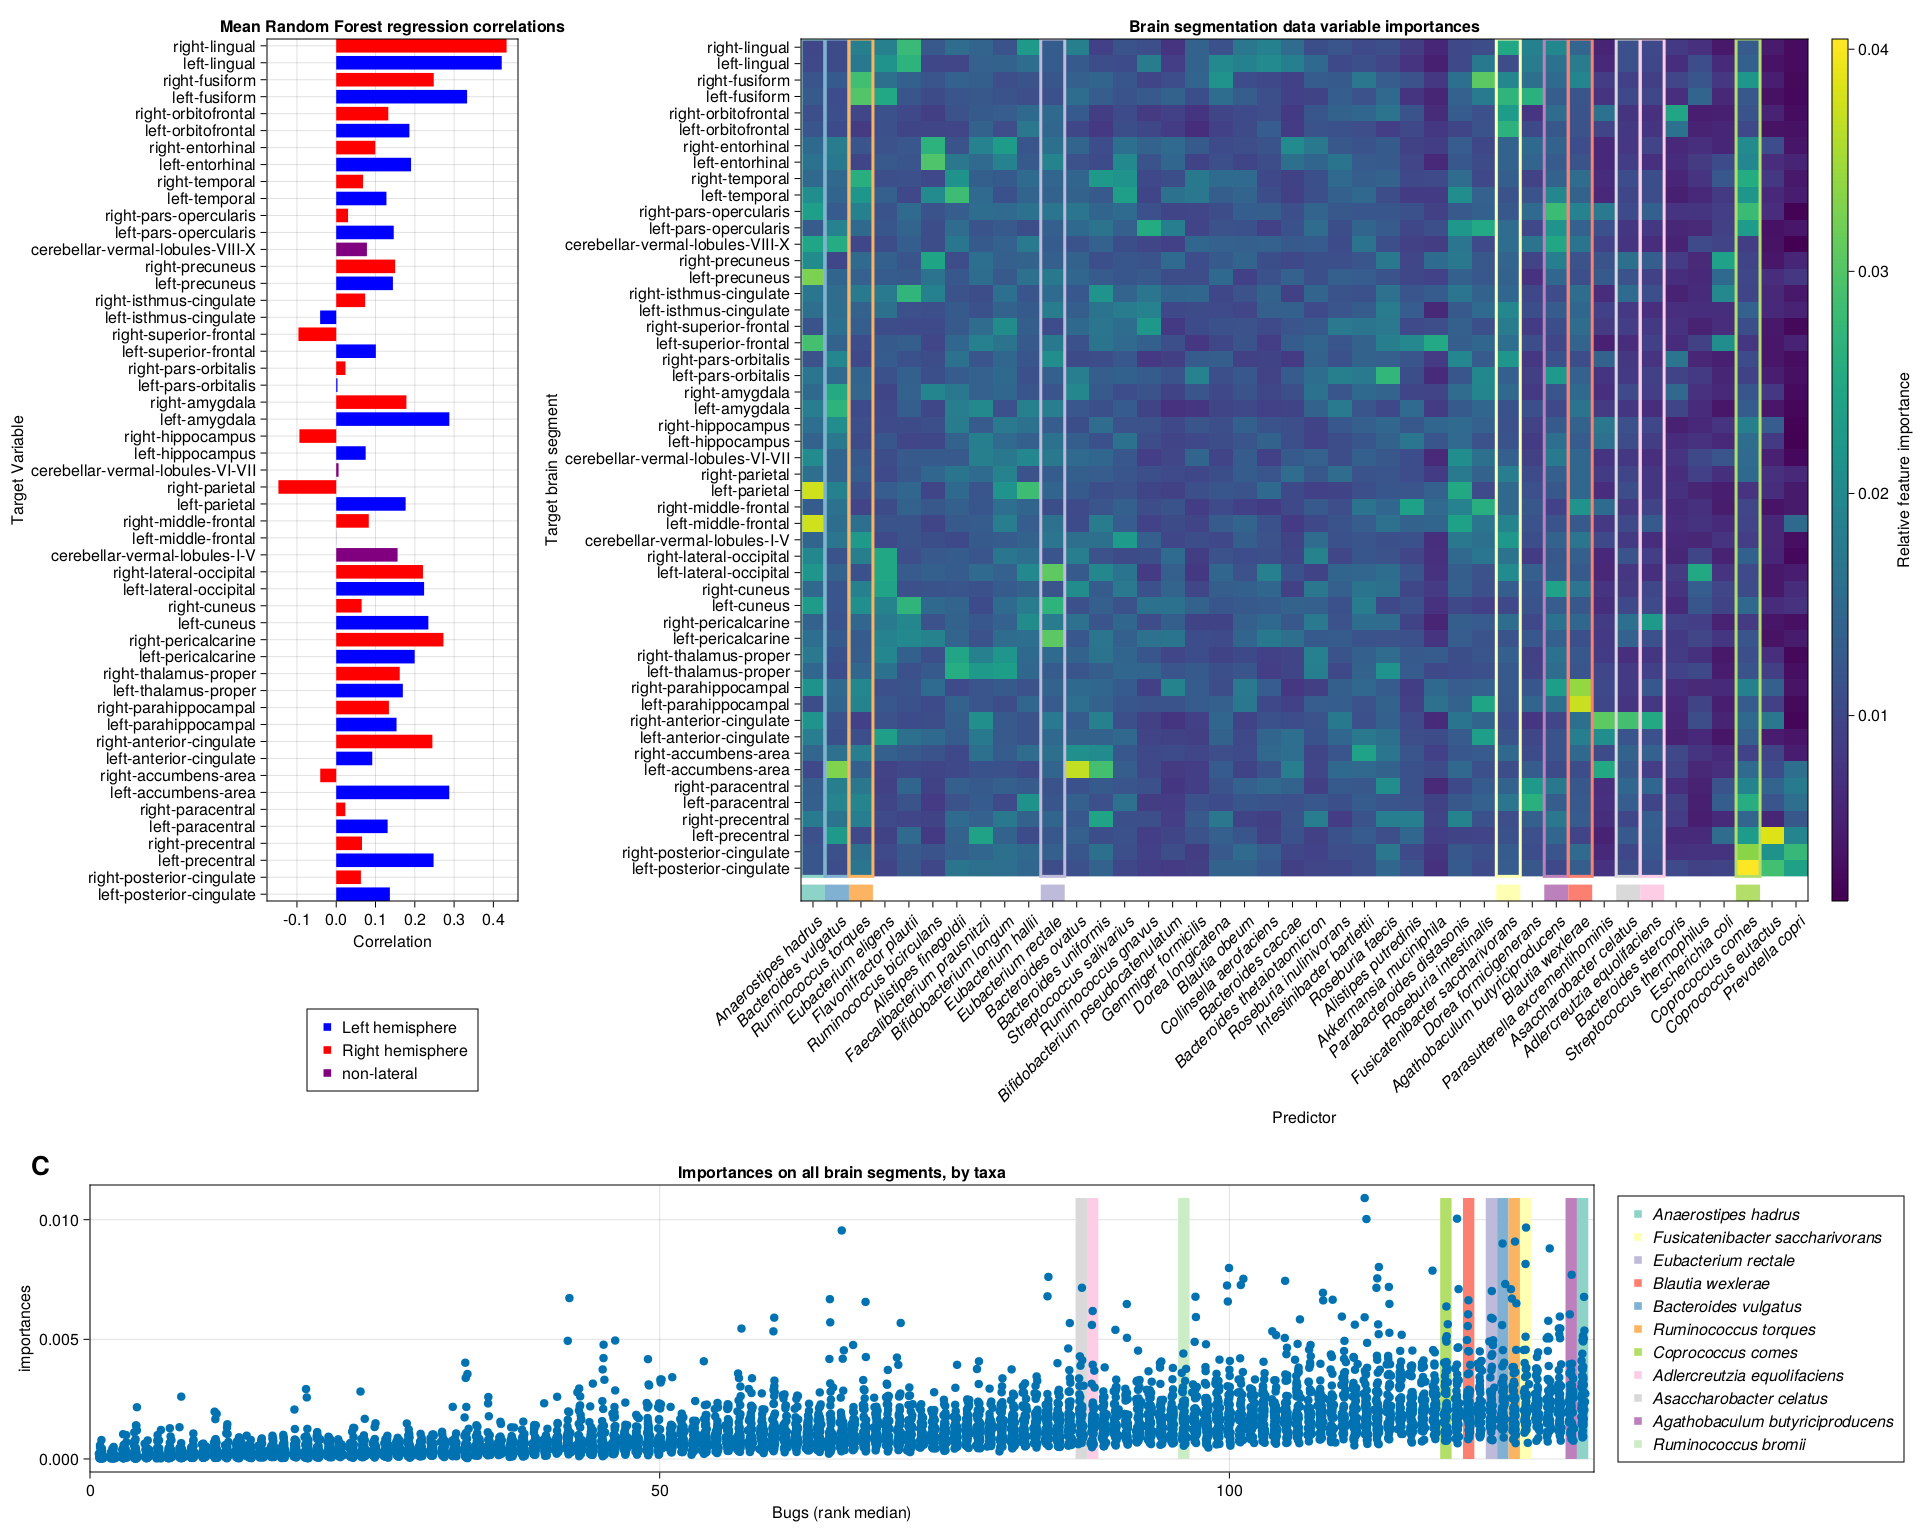
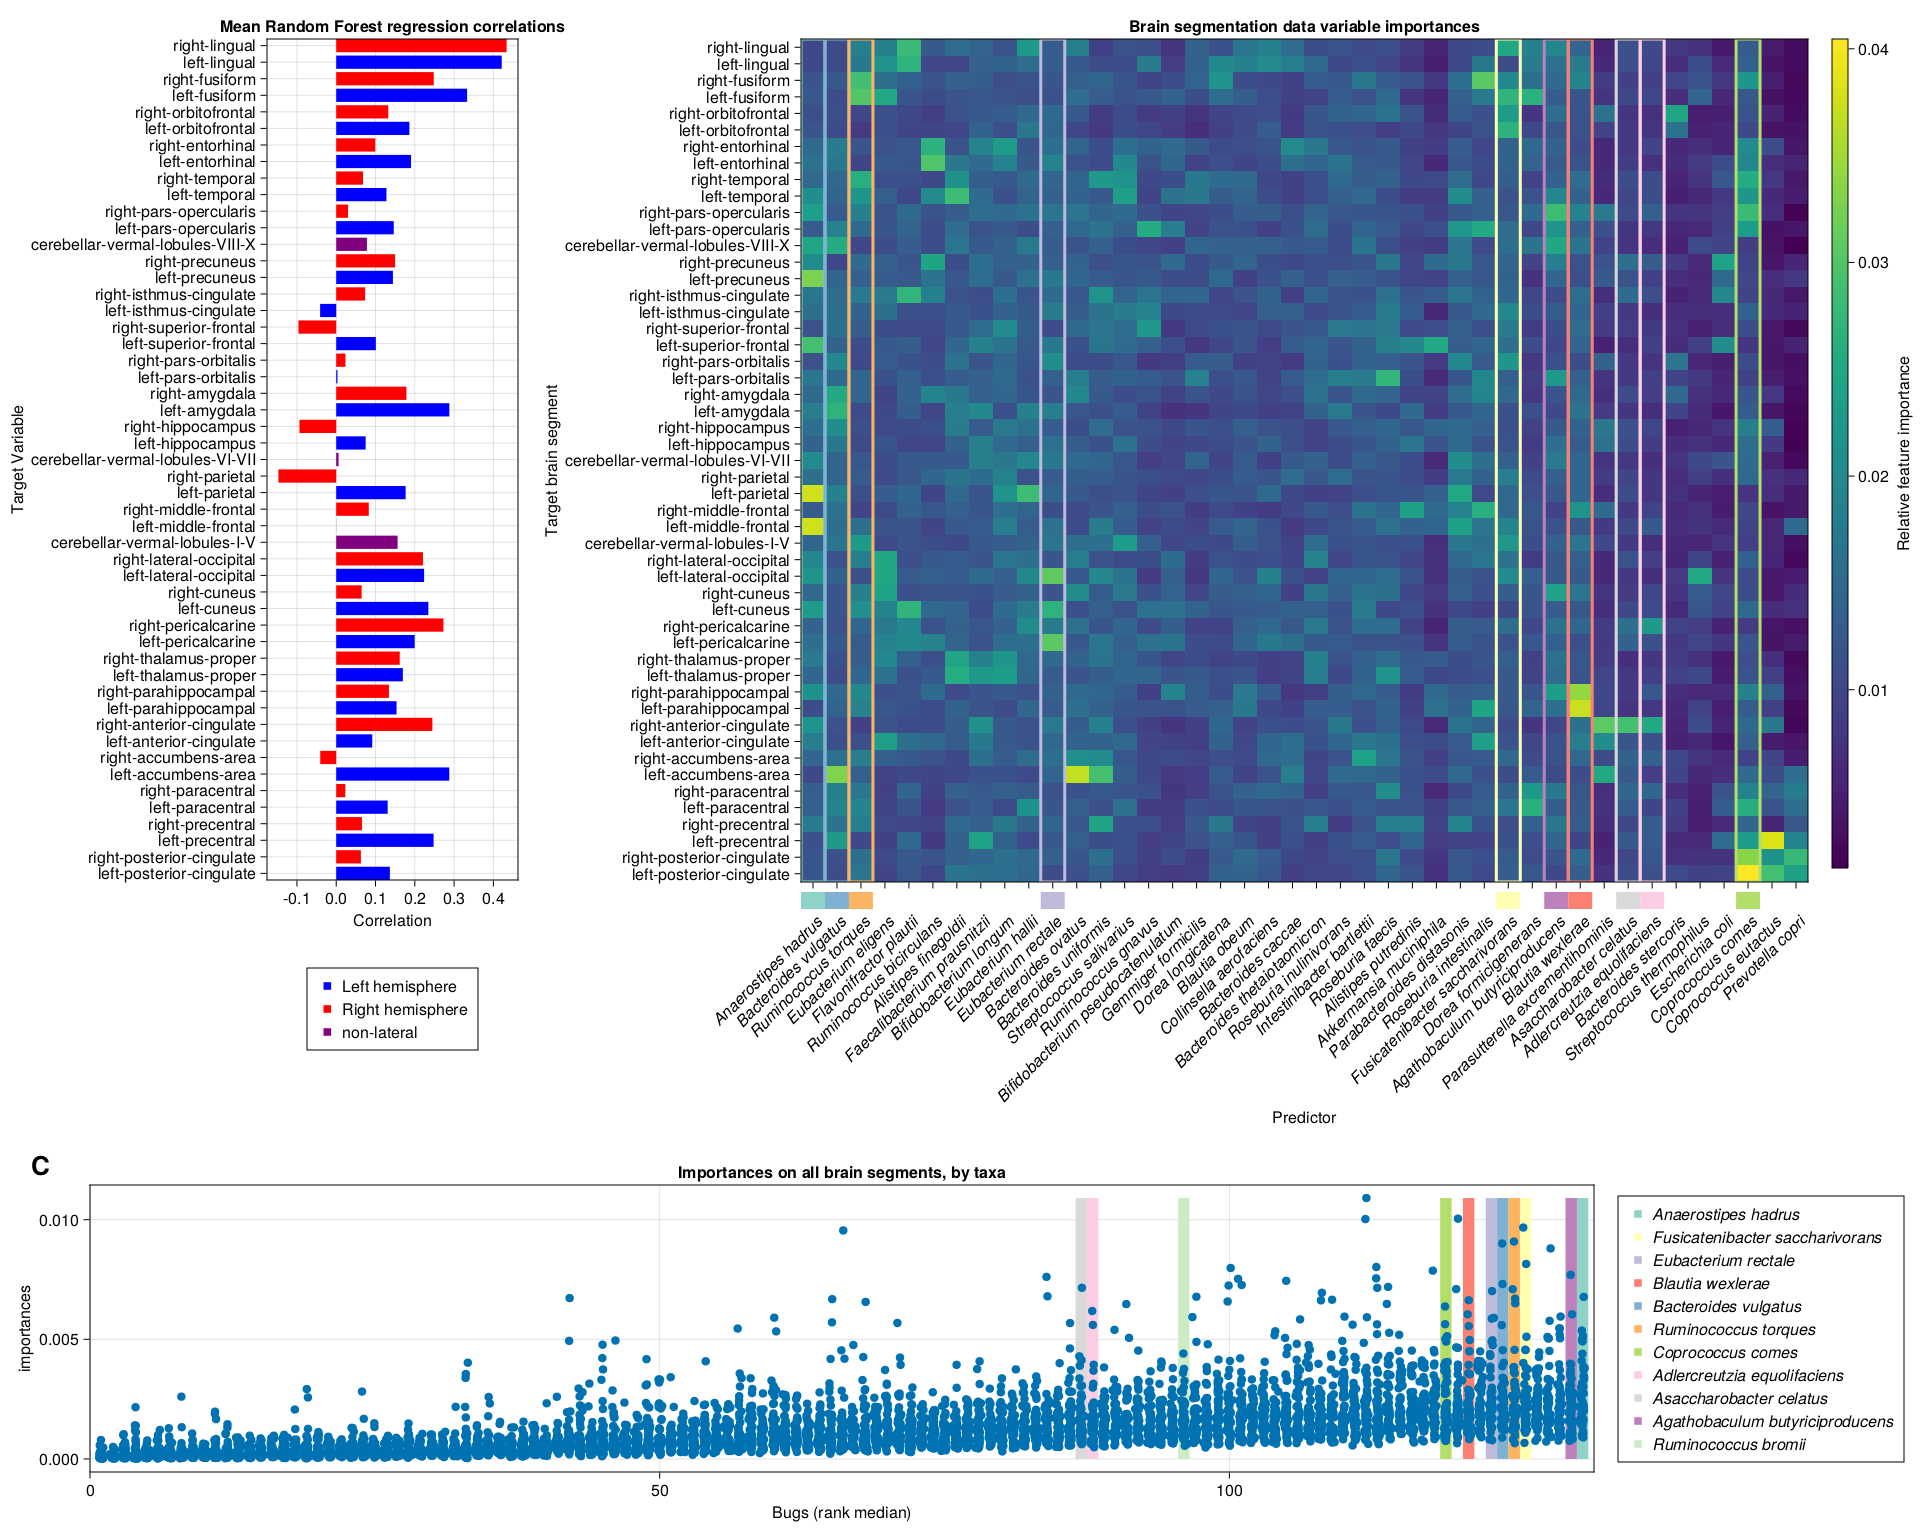
add color blocks to 4B - for real

diff --git a/manuscript/Figure4.md b/manuscript/Figure4.md
@@ -333,7 +333,6 @@ axA = Axis(
 tightlimits!(axA, Top())
 tightlimits!(axA, Bottom())
 
-# Plot barplot
 barplot!(
     axA,
     reverse(collect(1:length(interesting_segments))),
@@ -443,7 +442,9 @@ Then resize
 ```julia
 colsize!(AB_Subfig, 1, Relative(0.2))
 colsize!(AB_Subfig, 2, Relative(0.8))
-rowsize!(AB_Subfig, 2, Relative(0.15))
+rowsize!(AB_Subfig, 2, Relative(0.22))
+axA.alignmode=Mixed(; bottom=-60)
+axB.alignmode=Mixed(; bottom=-20)
 rowsize!(figure.layout, 1, Relative(0.75))
 rowsize!(figure.layout, 2, Relative(0.25))
 figure
